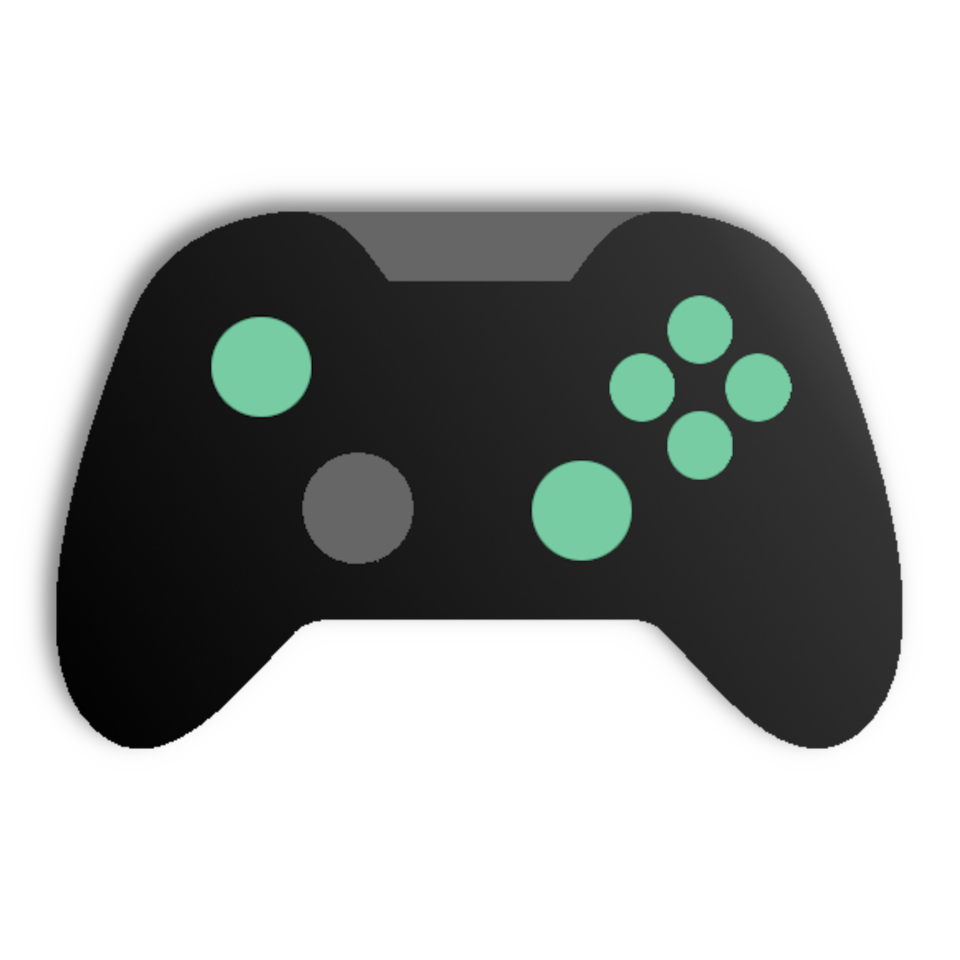
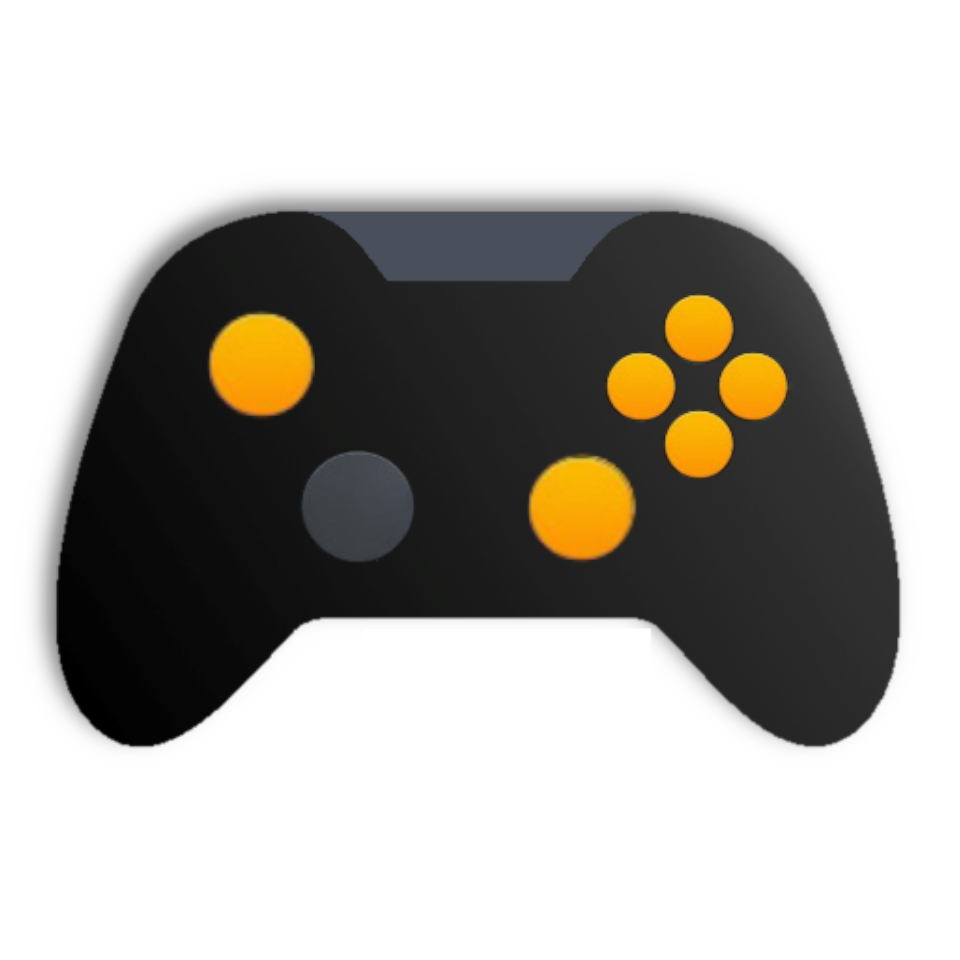
Enhancement: new colour scheme (#407)
* Validate new colopur scheme

* feed colour off a bit

* update the logo

* change the app icon

* remove commented former colour scheme

Pull request: Enhancement: new colour scheme
<img width="1920" height="791" alt="Banner" src="https://github.com/user-attachments/assets/b4d629c9-e8a9-42d7-b66b-8f62191af1f3" />

closes #334 
closes #80

diff --git a/App/Resources/Styles/Colors.xaml b/App/Resources/Styles/Colors.xaml
@@ -5,28 +5,29 @@
     xmlns:x="http://schemas.microsoft.com/winfx/2009/xaml">
 
     <ResourceDictionary>
-            <Color x:Key="Primary" >#4AC776</Color>
-            <Color x:Key="BackgroundColor" >#262626</Color>
-            <Color x:Key="SelectionColor" >#528e70</Color>
-            <Color x:Key="PrimaryAccent" >#1DB954</Color>
-            <Color x:Key="DarkPrimary" >#14813A</Color>
-            <Color x:Key="Secondary" >#666666</Color>
-            <Color x:Key="Alternate">#8B8E92</Color>
-            <Color x:Key="Dark" >#191414</Color>
-            <Color x:Key="DarkSecondary" >#4A4A4A</Color>
-            <Color x:Key="LightDark" >#404348</Color>
-            <Color x:Key="LightHeader" >#66686C</Color>
-            <Color x:Key="VeryLightDark" >#D8D9DA</Color>
-            <Color x:Key="Light" >#8EDCA9</Color>
-            <Color x:Key="UnselectedTabFont" >#7FC698</Color>
-            <Color x:Key="FontColor" >#ecebeb</Color>
-            <Color x:Key="BgBannerColor" >#262626</Color>
-            <Color x:Key="DiscordPurple" >#5d6af2</Color>
-            <Color x:Key="DiscountColor" >#FF5733</Color>
-            <!-- deals -->
-            <Color x:Key="DealExpiresSoonColor" >#FFEEEA</Color>
-            <Color x:Key="DealExpiresVerySoonColor" >#FFAB99</Color>
-            <Color x:Key="DealExpiringColor" >#FF6747</Color>
+        <Color x:Key="Primary">#3A8DFF</Color>
+        <Color x:Key="BackgroundColor">#1E1E1E</Color>
+        <Color x:Key="SelectionColor">#2F6FCC</Color>
+        <Color x:Key="PrimaryAccent">#FFB400</Color>
+        <Color x:Key="DarkPrimary">#2A5FA8</Color>
+        <Color x:Key="Secondary">#7A7A7A</Color>
+        <Color x:Key="Alternate">#A0A0A0</Color>
+        <Color x:Key="Dark">#141414</Color>
+        <Color x:Key="DarkSecondary">#3C3C3C</Color>
+        <Color x:Key="LightDark">#2E2E2E</Color>
+        <Color x:Key="LightHeader">#B5B5B5</Color>
+        <Color x:Key="VeryLightDark">#D0D0D0</Color>
+        <Color x:Key="Light">#66C7FF</Color>
+        <Color x:Key="UnselectedTabFont">#B5B5B5</Color>
+        <Color x:Key="FontColor">#F2F2F2</Color>
+        <Color x:Key="BgBannerColor">#1E1E1E</Color>
+        <Color x:Key="DiscordPurple" >#5d6af2</Color>
+        <Color x:Key="DiscountColor">#FF6A3D</Color>
+
+        <!-- Deals -->
+        <Color x:Key="DealExpiresSoonColor" >#FFEEEA</Color>
+        <Color x:Key="DealExpiresVerySoonColor" >#FFAB99</Color>
+        <Color x:Key="DealExpiringColor" >#FF6747</Color>
     </ResourceDictionary>
 
 </ResourceDictionary>

diff --git a/App/AppShell.xaml b/App/AppShell.xaml
@@ -6,10 +6,10 @@
        xmlns:control="clr-namespace:GamHubApp.Controls"
        Shell.TabBarBackgroundColor="{DynamicResource LightDark}"
        Shell.TabBarUnselectedColor="{DynamicResource UnselectedTabFont}"
-       Shell.TabBarTitleColor="{DynamicResource Primary}"
+       Shell.TabBarTitleColor="{DynamicResource PrimaryAccent}"
        Shell.BackgroundColor="{DynamicResource LightDark}"
        FlyoutBackgroundColor="{DynamicResource LightDark}"
-       Shell.ForegroundColor="{DynamicResource Primary}"
+       Shell.ForegroundColor="{DynamicResource PrimaryAccent}"
        FlyoutWidth="270"
        xmlns:mct="http://schemas.microsoft.com/dotnet/2022/maui/toolkit" 
        xmlns:viewmodels="clr-namespace:GamHubApp.ViewModels"
@@ -26,7 +26,7 @@
             <Setter Property="HorizontalTextAlignment" Value="Center" />
             <Setter Property="HorizontalOptions" Value="Center" />
             <Setter Property="FontSize" Value="23" />
-            <Setter Property="TextColor" Value="{DynamicResource Primary}" />
+            <Setter Property="TextColor" Value="{DynamicResource VeryLightDark}" />
             <Setter Property="Grid.Column" Value="0" />
         </Style>
         <Style TargetType="Label"
@@ -108,7 +108,7 @@
                         Text="{Binding Icon}" 
                         FontFamily="FaSolid" 
                         FontSize="23"
-                        TextColor="{DynamicResource Primary}"/>
+                        TextColor="{DynamicResource PrimaryAccent}"/>
                 <!-- Title -->
                 <Label Grid.Column="1" 
                        Text="{Binding Title}" 
@@ -164,7 +164,7 @@
                         </Label>
                         <Border StrokeShape="RoundRectangle 0,8,8,8"
                                 Grid.Column="1"
-                                BackgroundColor="{DynamicResource PrimaryAccent}">
+                                BackgroundColor="{DynamicResource Primary}">
                             <Label Grid.Column="0"
                                     Margin="5"
                                     FontSize="20"
@@ -354,7 +354,7 @@
                    />
             </Grid>
             
-            <Label Text="© 2025 Brice Friha"
+            <Label Text="© 2026 Brice Friha"
                    FontSize="12"
                    Grid.Row="3"
                    Margin="0,10,0,0"

diff --git a/App/Views/ArticlePage.xaml b/App/Views/ArticlePage.xaml
@@ -47,7 +47,7 @@
                 <!-- Sub Menu button -->
                 <Button Text="&#xf141;" 
                         FontFamily="FaSolid"
-                        TextColor="{StaticResource Primary}"
+                        TextColor="{StaticResource PrimaryAccent}"
                         BackgroundColor="{StaticResource LightDark}"
                         Grid.Column="1"
                         FontSize="30"
@@ -184,7 +184,7 @@
                                                                                 x:DataType=ContentPage}"/>
                                 </Border.Behaviors>
 
-                            <Label TextColor="{StaticResource Primary}"
+                                <Label TextColor="{StaticResource VeryLightDark}"
                                    Text="{Binding TtsIcon}"
                                    FontFamily="FaSolid"
                                    HorizontalOptions="Center"
@@ -220,7 +220,7 @@
                     <!-- Button to open to the default Browser -->
                 <Button Text="Read more"
                         BackgroundColor="{StaticResource LightDark}"
-                        TextColor="{StaticResource Primary}"
+                        TextColor="{StaticResource PrimaryAccent}"
                         FontFamily="P-Bold"
                         FontSize="12"
                         Command="{Binding Browse}"

diff --git a/App/Views/NewsPage.xaml b/App/Views/NewsPage.xaml
@@ -128,10 +128,8 @@
                         <DataTrigger Binding="{Binding IsCurrentSearchSaved, Mode=TwoWay}"
                                      TargetType="Button"
                                      Value="True">
-                            <!--<Setter Property="FontFamily" 
-                                    Value="FaSolid" />-->
                             <Setter Property="TextColor" 
-                                    Value="{StaticResource Primary}" />
+                                    Value="{StaticResource PrimaryAccent}" />
                         </DataTrigger>
                         <DataTrigger Binding="{Binding IsCurrentSearchSaved, Mode=TwoWay}"
                                      TargetType="Button"
@@ -165,7 +163,7 @@
                      Command="{Binding RefreshFeed, Mode=OneWay}"
                      CommandParameter="{Binding IsSearching, Converter={StaticResource BoolInverseConverter}}"
                      x:Name="newsRefreshView"
-                     RefreshColor="{StaticResource PrimaryAccent}">
+                     RefreshColor="{StaticResource Primary}">
             
             <RefreshView.BackgroundColor>
                 <OnPlatform x:TypeArguments="Color">

diff --git a/App/Views/PopUps/DealFilterPopUp.xaml b/App/Views/PopUps/DealFilterPopUp.xaml
@@ -52,7 +52,7 @@
                                    Margin="5,0"
                                    Grid.Column="1"
                                    TextColor="{StaticResource FontColor}"/>
-                            <Switch OnColor="{StaticResource PrimaryAccent}"
+                            <Switch OnColor="{StaticResource Light}"
                                     ThumbColor="{StaticResource Primary}"
                                     HorizontalOptions="End"
                                     VerticalOptions="Center"
@@ -80,7 +80,7 @@
                 </Grid.ColumnDefinitions>
                 <Button Text="Cancel"
                         BackgroundColor="{StaticResource LightDark}"
-                        TextColor="{StaticResource Primary}"
+                        TextColor="{StaticResource PrimaryAccent}"
                         FontFamily="P-Bold"
                         HeightRequest="40"
                         WidthRequest="130"
@@ -92,7 +92,7 @@
                         CornerRadius="12"
                         Grid.Column="0"/>
                 <Button Text="Save"
-                        BackgroundColor="{StaticResource Primary}"
+                        BackgroundColor="{StaticResource PrimaryAccent}"
                         TextColor="{StaticResource LightDark}"
                         FontFamily="P-Bold"
                         FontSize="15"

diff --git a/App/Controls/BookmarkButton.xaml b/App/Controls/BookmarkButton.xaml
@@ -22,7 +22,7 @@
                     <Setter Property="FontFamily"
                             Value="FaSolid" />
                     <Setter Property="TextColor" 
-                                    Value="{StaticResource Primary}" />
+                                    Value="{StaticResource PrimaryAccent}" />
                 </DataTrigger>
                 <DataTrigger TargetType="Button"
                              Binding="{Binding IsSaved, Source={x:Reference thy}}"
@@ -30,7 +30,7 @@
                     <Setter Property="FontFamily"
                             Value="FaRegular" />
                     <Setter Property="TextColor" 
-                            Value="{StaticResource Light}" />
+                            Value="{StaticResource VeryLightDark}" />
                 </DataTrigger>
             </Button.Triggers>
         </Button>

diff --git a/App/Resources/Styles/ArticleStyle.css b/App/Resources/Styles/ArticleStyle.css
@@ -14,8 +14,8 @@ label {
 }
 
 a {
-    color: #4AC776;
+    color: #66C7FF;
 }
 * {
-    color: #ecebeb;
+    color: #F2F2F2;
 }

diff --git a/App/Resources/Styles/Styles.xaml b/App/Resources/Styles/Styles.xaml
@@ -71,7 +71,7 @@
         <Setter Property="FontSize" Value="20" />
         <Setter Property="Padding" Value="0" />
         <Setter Property="Margin" Value="0" />
-        <Setter Property="TextColor" Value="{StaticResource Light}" />
+        <Setter Property="TextColor" Value="{StaticResource VeryLightDark}" />
 
     </Style>
     
@@ -109,7 +109,7 @@
         <Setter Property="HorizontalOptions" Value="Center" />
         <Setter Property="VerticalOptions" Value="Center" />
 
-        <Setter Property="TextColor" Value="{StaticResource Light}" />
+        <Setter Property="TextColor" Value="{StaticResource VeryLightDark}" />
 
     </Style>
 </ResourceDictionary>

diff --git a/App/Views/DealsPage.xaml b/App/Views/DealsPage.xaml
@@ -220,7 +220,7 @@
                                                                      x:DataType=Border}"/>
                             </Border.Behaviors>
                             <Label Style="{StaticResource LabelButtonStyle}"
-                                   TextColor="{StaticResource Primary }"
+                                   TextColor="{StaticResource VeryLightDark }"
                                    Text="&#xf14d;"
                                />
                         </Border>

diff --git a/App/Views/FeedsPage.xaml b/App/Views/FeedsPage.xaml
@@ -38,7 +38,7 @@
                 <!-- edit button -->
                 <Button Text="&#xf044;" 
                         FontFamily="FaSolid"
-                        TextColor="{StaticResource Primary}"
+                        TextColor="{StaticResource PrimaryAccent}"
                         BackgroundColor="{StaticResource LightDark}"
                         Clicked="Menu_Clicked"
                         Grid.Column="1"